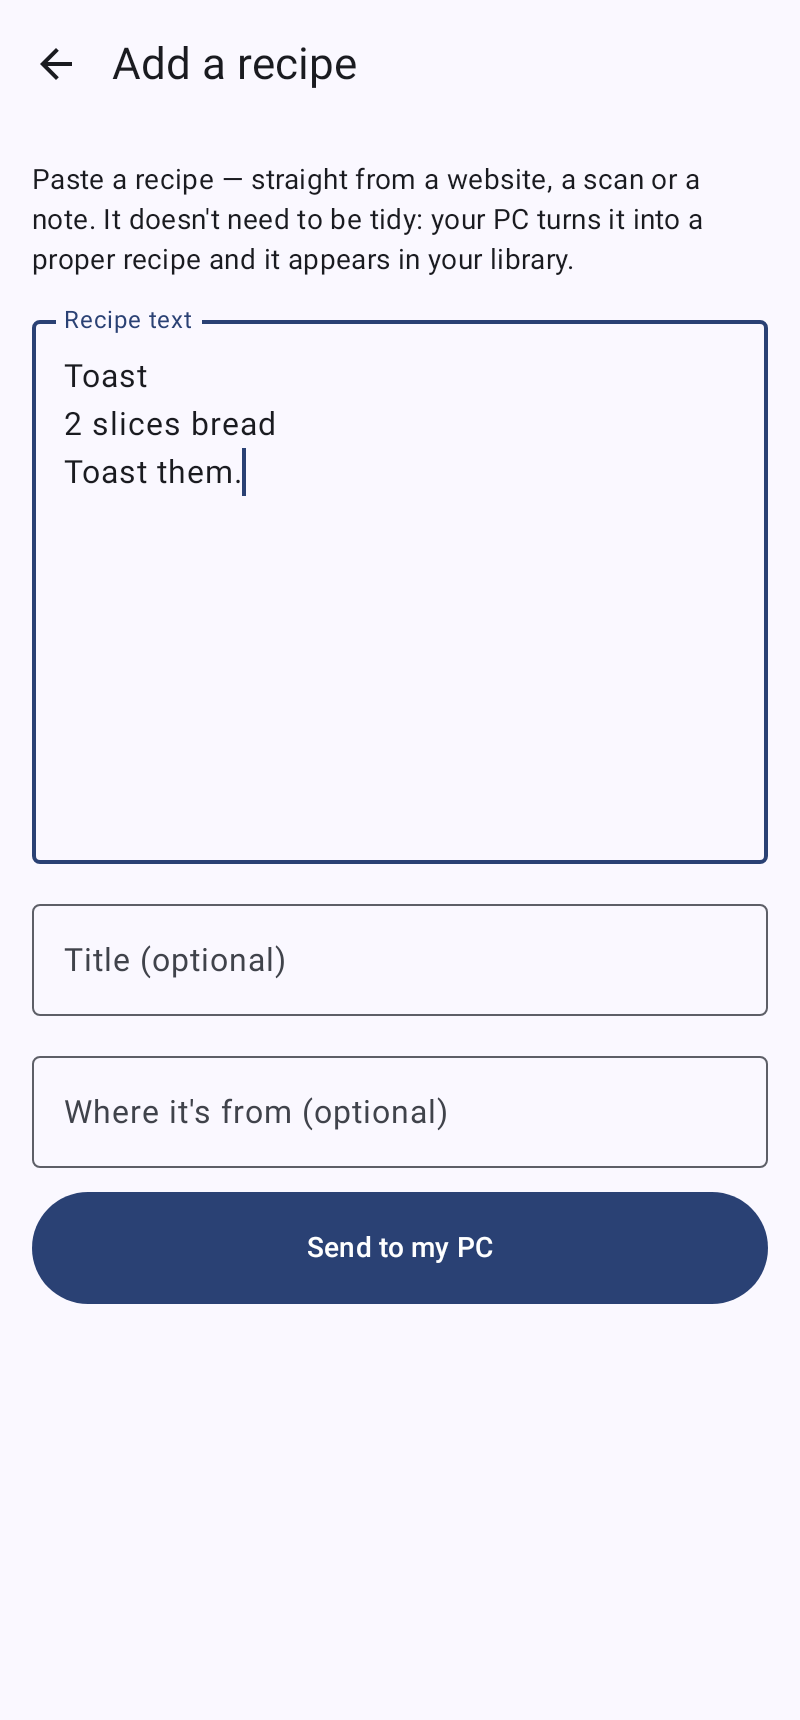
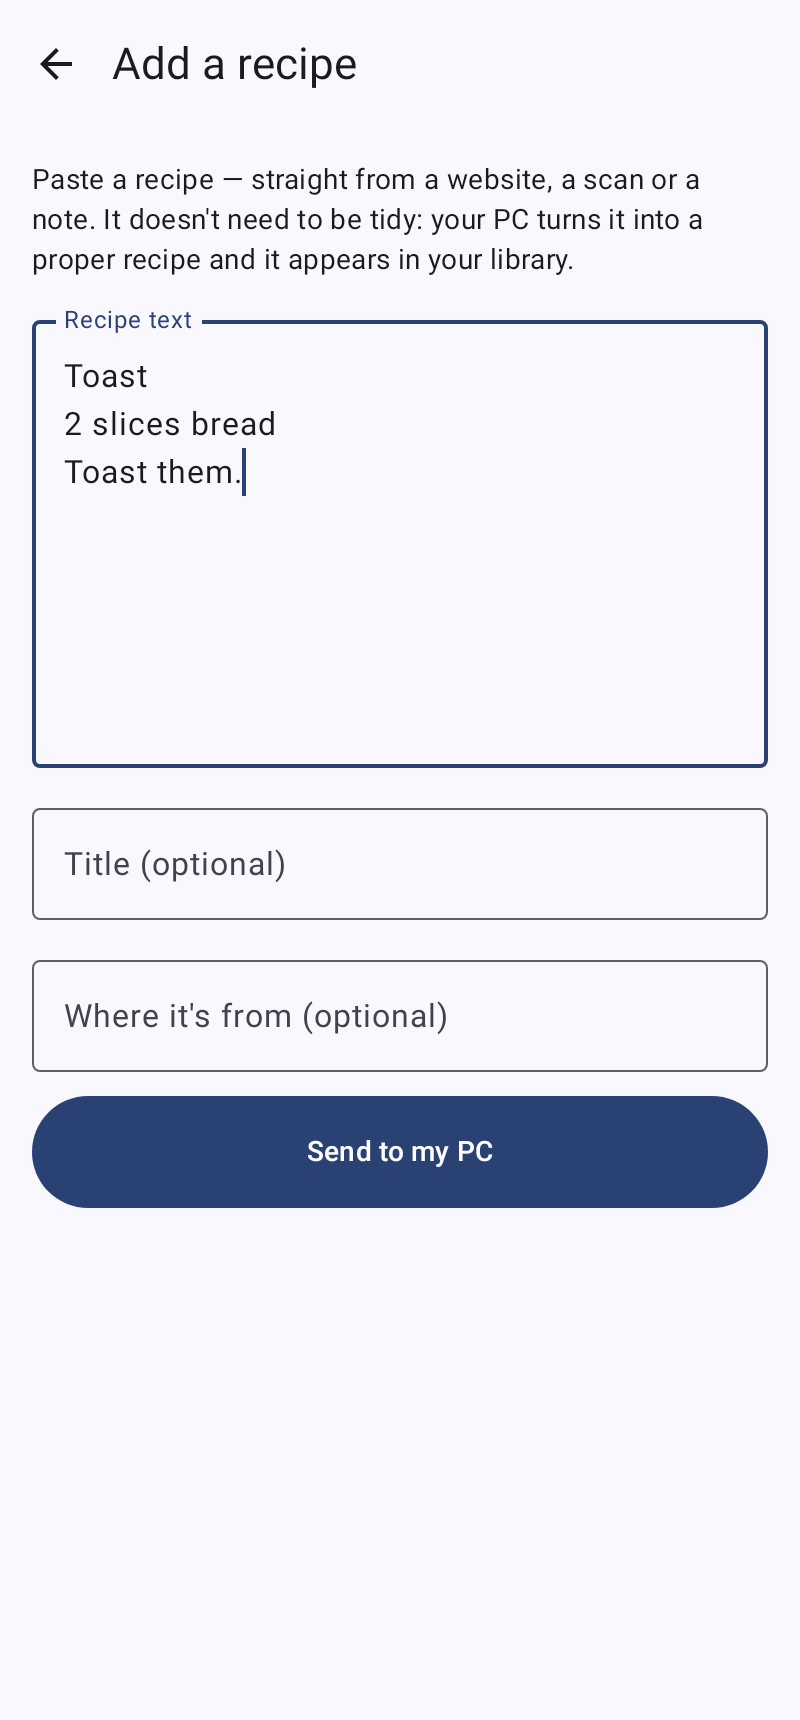
Add recipe: keep the fields above the keyboard; long text scrolls inside its box
Recipe text is capped at 12 lines (scrolls inside), and screens with text
fields (add recipe, settings, new plan, shopping list) pad for the keyboard
so the focused field stays visible. Inbox notice mentions Claude Code.

Claude-Session: https://claude.ai/code/session_01XBrG3rz6Ua5AsqvRiZ2zuC

Changed region(s): [[0.0312, 0.4314, 0.9688, 0.7703], [0.9375, 0.4314, 0.9688, 0.5547]]

diff --git a/android/app/src/main/kotlin/app/mise/ui/add/AddRecipeScreen.kt b/android/app/src/main/kotlin/app/mise/ui/add/AddRecipeScreen.kt
@@ -1,5 +1,7 @@
 package app.mise.ui.add
 
+import androidx.compose.foundation.layout.imePadding
+import androidx.compose.foundation.layout.consumeWindowInsets
 import androidx.compose.foundation.layout.Arrangement
 import androidx.compose.foundation.layout.Column
 import androidx.compose.foundation.layout.Row
@@ -139,7 +141,8 @@ fun AddRecipeScreen(viewModel: AddRecipeViewModel, onBack: () -> Unit, onOpenRec
         )
     }) { padding ->
         Column(
-            Modifier.fillMaxSize().padding(padding).verticalScroll(rememberScrollState()).padding(16.dp),
+            Modifier.fillMaxSize().padding(padding).consumeWindowInsets(padding).imePadding() // stay above the keyboard
+                .verticalScroll(rememberScrollState()).padding(16.dp),
             verticalArrangement = Arrangement.spacedBy(12.dp),
         ) {
             if (!state.usesPc) {
@@ -162,13 +165,16 @@ fun AddRecipeScreen(viewModel: AddRecipeViewModel, onBack: () -> Unit, onOpenRec
                 state.features?.canImport == false -> Notice(Icons.Outlined.ErrorOutline, "Update your PC server",
                     "This server is too old to accept recipes from the app. Download the latest version and restart it.")
                 state.features?.canConvert == false -> Notice(Icons.Outlined.Inbox, "It'll wait in the inbox",
-                    "Your PC server doesn't have an API key, so the text is saved to its inbox and converted next time you run " +
-                        "convert. (Start the server with ANTHROPIC_API_KEY set to convert straight away.)")
+                    "Your PC can't convert right now, so the text is saved to its inbox and converted next time you run " +
+                        "convert. (Log in to Claude Code on the PC, or set ANTHROPIC_API_KEY, then restart the server to " +
+                        "convert straight away.)")
             }
             OutlinedTextField(
                 value = state.text, onValueChange = viewModel::setText,
-                label = { Text("Recipe text") }, minLines = 10,
-                modifier = Modifier.fillMaxWidth().heightIn(min = 220.dp),
+                label = { Text("Recipe text") },
+                // Long recipes scroll inside the box, so the fields and button below stay reachable.
+                minLines = 8, maxLines = 12,
+                modifier = Modifier.fillMaxWidth(),
             )
             if (state.text.isBlank()) {
                 TextButton(onClick = { clipboard.getText()?.text?.let(viewModel::setText) }) {

diff --git a/android/app/src/test/kotlin/app/mise/ui/PlansScreensTest.kt b/android/app/src/test/kotlin/app/mise/ui/PlansScreensTest.kt
@@ -3,6 +3,7 @@ package app.mise.ui
 import android.graphics.Bitmap
 import androidx.compose.runtime.Composable
 import androidx.compose.ui.graphics.asAndroidBitmap
+import androidx.compose.ui.test.assertIsDisplayed
 import androidx.compose.ui.test.captureToImage
 import androidx.compose.ui.test.hasScrollAction
 import androidx.compose.ui.test.hasText
@@ -235,6 +236,15 @@ class PlansScreensTest {
         assertThat(source.imports.single()).startsWith("Toast")
         compose.onNodeWithText("Open recipe").performClick()
         assertThat(opened).isEqualTo(id)
+    }
+
+    @Test fun longRecipeTextKeepsTheFieldsBelowOnScreen() {
+        val vm = AddRecipeViewModel(TestFixtures.lambRaw, null, repo, settings) // a full recipe, ~60 lines
+        show { AddRecipeScreen(vm, onBack = {}, onOpenRecipe = {}) }
+        waitFor("Send to my PC")
+        compose.onNodeWithText("Title (optional)").assertIsDisplayed()
+        compose.onNodeWithText("Send to my PC").assertIsDisplayed()
+        screenshot("add-recipe-long")
     }
 
     @Test fun addRecipeWithoutKeyWaitsInInbox() {

diff --git a/android/app/src/main/kotlin/app/mise/ui/plans/ShoppingScreens.kt b/android/app/src/main/kotlin/app/mise/ui/plans/ShoppingScreens.kt
@@ -2,6 +2,8 @@ package app.mise.ui.plans
 
 import android.content.Intent
 import androidx.compose.foundation.clickable
+import androidx.compose.foundation.layout.imePadding
+import androidx.compose.foundation.layout.consumeWindowInsets
 import androidx.compose.foundation.layout.Arrangement
 import androidx.compose.foundation.layout.Column
 import androidx.compose.foundation.layout.PaddingValues
@@ -162,7 +164,7 @@ fun ShoppingListScreen(viewModel: ShoppingListViewModel, onBack: () -> Unit) {
         val d = detail ?: return@Scaffold
         val total = d.items.size
         val done = d.items.count { it.checked }
-        LazyColumn(Modifier.fillMaxSize().padding(padding), contentPadding = PaddingValues(bottom = 32.dp)) {
+        LazyColumn(Modifier.fillMaxSize().padding(padding).consumeWindowInsets(padding).imePadding(), contentPadding = PaddingValues(bottom = 32.dp)) {
             item(key = "head") {
                 Column(Modifier.padding(16.dp), verticalArrangement = Arrangement.spacedBy(6.dp)) {
                     if (d.recipes.isNotEmpty()) {

diff --git a/android/app/src/main/kotlin/app/mise/ui/plans/NewPlanScreen.kt b/android/app/src/main/kotlin/app/mise/ui/plans/NewPlanScreen.kt
@@ -1,5 +1,7 @@
 package app.mise.ui.plans
 
+import androidx.compose.foundation.layout.imePadding
+import androidx.compose.foundation.layout.consumeWindowInsets
 import androidx.compose.foundation.layout.Arrangement
 import androidx.compose.foundation.layout.Column
 import androidx.compose.foundation.layout.PaddingValues
@@ -172,7 +174,7 @@ fun NewPlanScreen(viewModel: NewPlanViewModel, onBack: () -> Unit, onCreated: (L
             ) { Text(if (meal) "Make the plan" else "Make the list") }
         },
     ) { padding ->
-        LazyColumn(Modifier.fillMaxSize().padding(padding), contentPadding = PaddingValues(16.dp), verticalArrangement = Arrangement.spacedBy(12.dp)) {
+        LazyColumn(Modifier.fillMaxSize().padding(padding).consumeWindowInsets(padding).imePadding(), contentPadding = PaddingValues(16.dp), verticalArrangement = Arrangement.spacedBy(12.dp)) {
             item {
                 OutlinedTextField(
                     value = state.name, onValueChange = viewModel::setName, label = { Text("Name") },

diff --git a/android/app/src/main/kotlin/app/mise/ui/settings/SettingsScreen.kt b/android/app/src/main/kotlin/app/mise/ui/settings/SettingsScreen.kt
@@ -4,6 +4,8 @@ import androidx.core.net.toUri
 import android.text.format.DateUtils
 import androidx.activity.compose.rememberLauncherForActivityResult
 import androidx.activity.result.contract.ActivityResultContracts
+import androidx.compose.foundation.layout.imePadding
+import androidx.compose.foundation.layout.consumeWindowInsets
 import androidx.compose.foundation.layout.Arrangement
 import androidx.compose.foundation.layout.Column
 import androidx.compose.foundation.layout.Row
@@ -124,7 +126,8 @@ fun SettingsScreen(
         },
     ) { padding ->
         Column(
-            Modifier.fillMaxSize().padding(padding).verticalScroll(rememberScrollState()).padding(bottom = 32.dp),
+            Modifier.fillMaxSize().padding(padding).consumeWindowInsets(padding).imePadding()
+                .verticalScroll(rememberScrollState()).padding(bottom = 32.dp),
         ) {
             Section("Recipes come from")
             Column(Modifier.selectableGroup()) {
